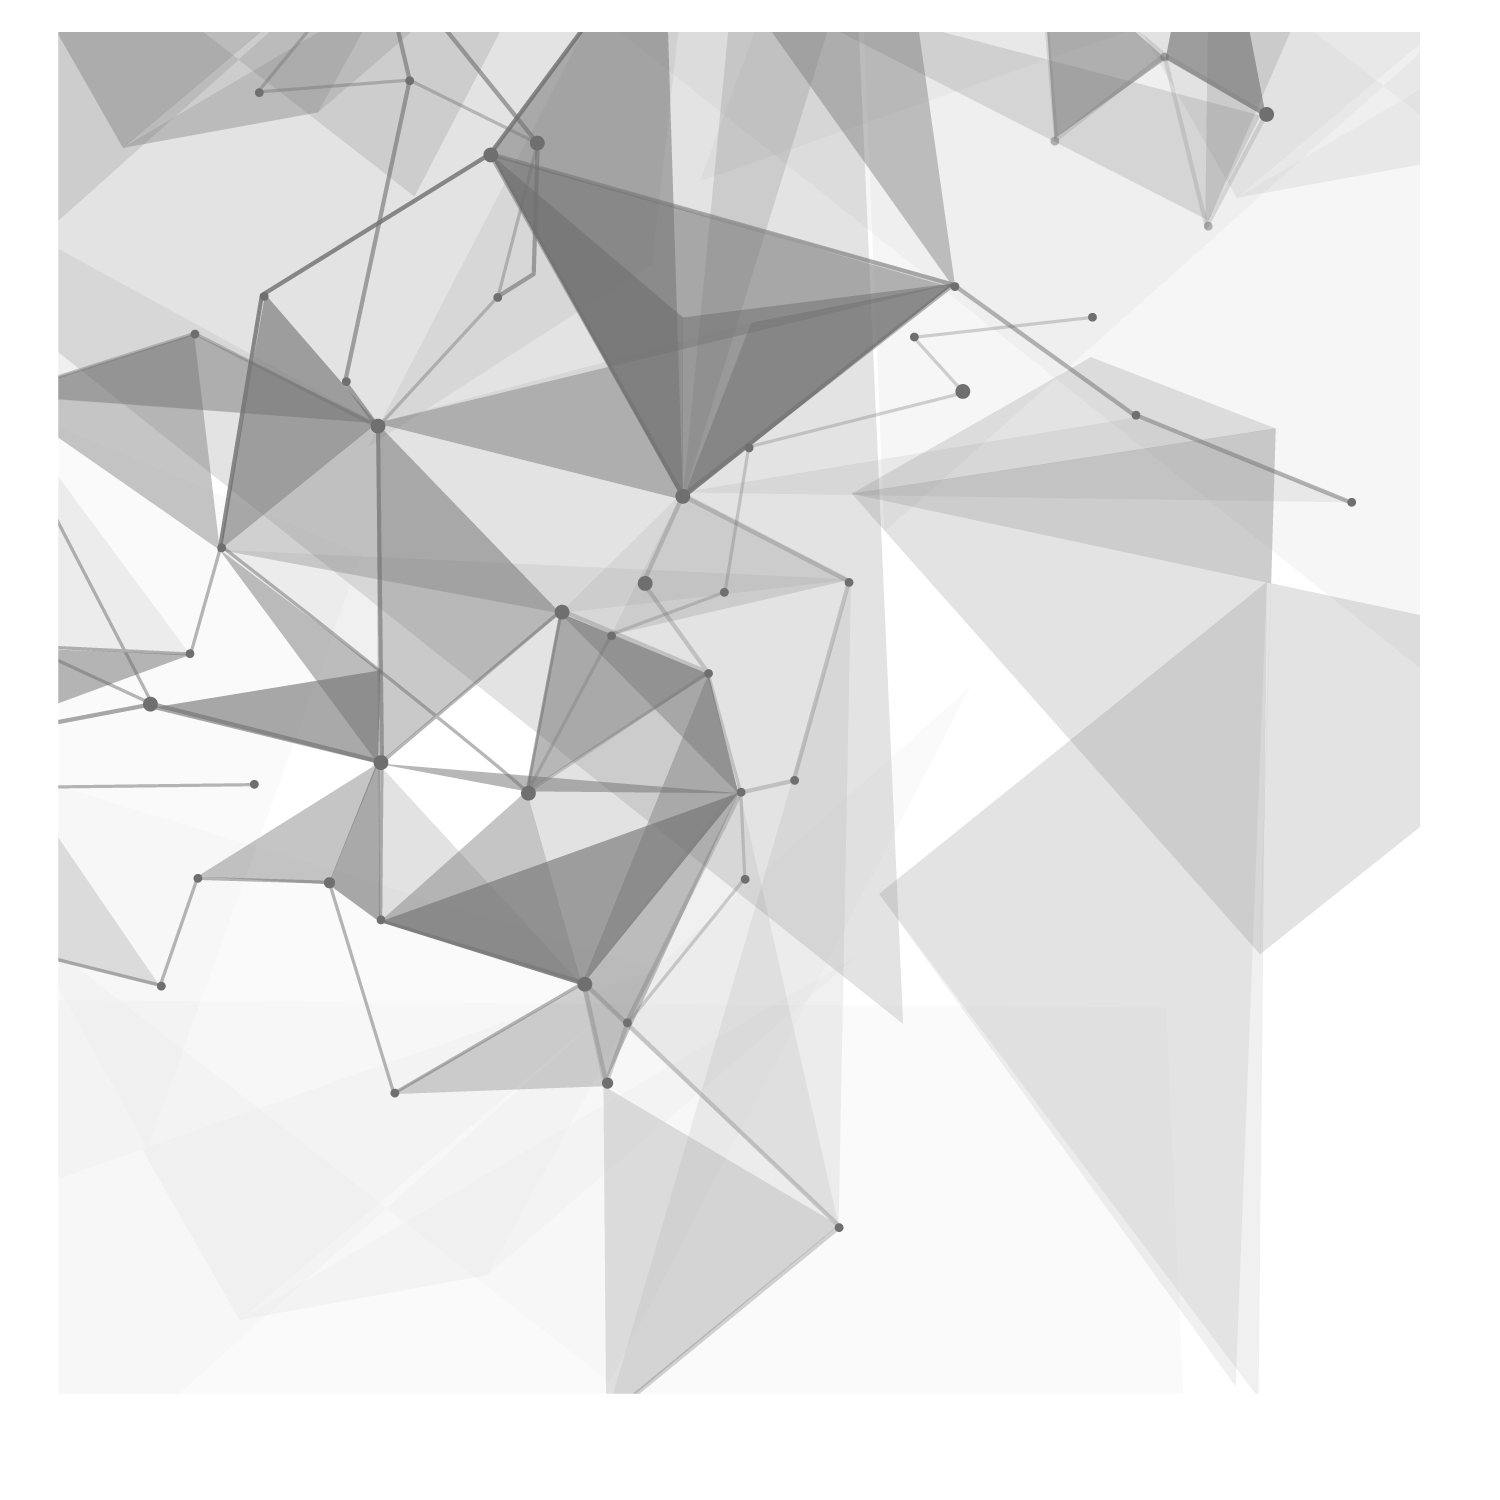
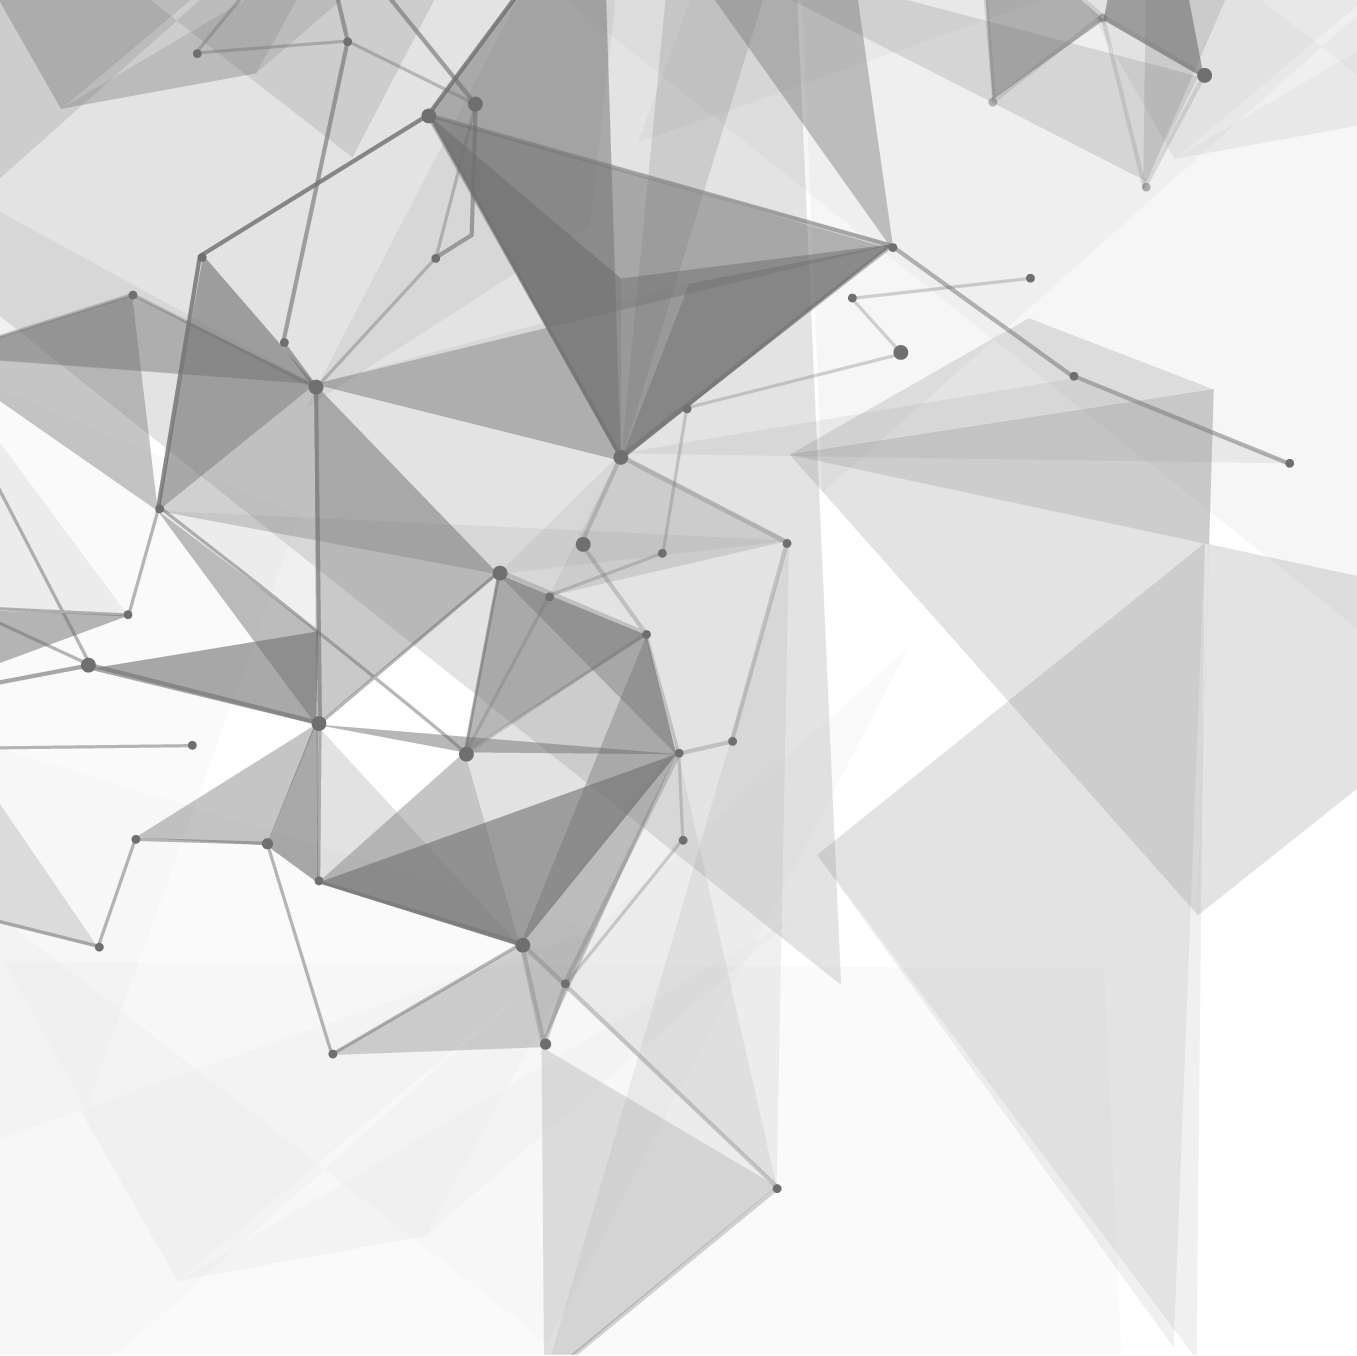
FIX: bg

diff --git a/sass/partials/_layout.scss b/sass/partials/_layout.scss
@@ -23,8 +23,10 @@ section {
 #texture-overlay {
     background-image: url("../assets/images/bg-layer.png");
     background-size: 120%;
-    background-position: center;
+    background-position: top;
+    background-repeat: no-repeat;
     opacity: 0.2;
+    
 }
 
 @media (max-width: 312.98px) {
@@ -32,48 +34,17 @@ section {
 }
 
 @media (max-width: 575.98px) {
-    .home.heading h2 {
-        font-size: 0.8rem;
-    }
-    .store.logo img{
-        width: 5rem!important;
-    }
-    .store.logo {
-        padding-right: 1rem!important;
-        padding-left: 1rem!important;
-        bottom: 1rem!important;
-    }
-    
+
 }
 
-.modal-backdrop {
-    z-index: 6000;
-}
 
 @media (max-width: 767.98px){
-   .home.heading {
-        top: inherit!important;
-        right: inherit!important;
-        width: 100vw;
-        display: flex;
-        justify-content: center;
-        bottom: 10rem!important;
-   }
-   .home.logo {
-        bottom: inherit!important;
-        top: 1rem;
-   }
-   .home.logo img{
-        width: 5rem!important;
-    }
+
 }
 
 
 @media (max-width: 991.98px) { 
-    .hero {
-        left: -20rem;
-        width: auto!important;
-   }
+
 }
 
 
@@ -81,6 +52,3 @@ section {
 
 }
 
-@media only screen and (max-height: 900px) {  
-   
-}

diff --git a/css/styles.css b/css/styles.css
@@ -634,54 +634,8 @@ section {
 #texture-overlay {
   background-image: url("../assets/images/bg-layer.png");
   background-size: 120%;
-  background-position: center;
+  background-position: top;
+  background-repeat: no-repeat;
   opacity: 0.2;
-}
-
-@media (max-width: 575.98px) {
-  .home.heading h2 {
-    font-size: 0.8rem;
-  }
-  .store.logo img {
-    width: 5rem !important;
-  }
-  .store.logo {
-    padding-right: 1rem !important;
-    padding-left: 1rem !important;
-    bottom: 1rem !important;
-  }
-}
-
-.modal-backdrop {
-  z-index: 6000;
-}
-
-@media (max-width: 767.98px) {
-  .home.heading {
-    top: inherit !important;
-    right: inherit !important;
-    width: 100vw;
-    display: -webkit-box;
-    display: -ms-flexbox;
-    display: flex;
-    -webkit-box-pack: center;
-        -ms-flex-pack: center;
-            justify-content: center;
-    bottom: 10rem !important;
-  }
-  .home.logo {
-    bottom: inherit !important;
-    top: 1rem;
-  }
-  .home.logo img {
-    width: 5rem !important;
-  }
-}
-
-@media (max-width: 991.98px) {
-  .hero {
-    left: -20rem;
-    width: auto !important;
-  }
 }
 /*# sourceMappingURL=styles.css.map */

diff --git a/index.html b/index.html
@@ -23,7 +23,9 @@
 <body class="font-regular">
   <div name="container" class="" style="width: 100vw; min-height: 100vh;">
     <div name="gradient-overlay" class="w-100 position-absolute bg-gradient" style="min-height: 100vh; z-index: 2000; opacity: 0.9;"></div>
-    <div name="texture-overlay" id="texture-overlay" class="w-100 position-absolute" style="min-height: 100vh; z-index: 3000;"></div>
+    <div class="position-absolute w-100 overflow-hidden" style="height: 100vh; z-index: 3000">
+      <div name="texture-overlay position-relative" id="texture-overlay" style="height: 100vh;"></div>
+    </div>
     <div id="carouselExampleIndicators" class="carousel slide" data-interval="false" style="z-index: 4000">
       <div class="carousel-indicators position-fixed" style="bottom: 1.2rem;">
         <button type="button" data-bs-target="#carouselExampleIndicators" data-bs-slide-to="0" class="text-white text-center active mx-3" aria-current="true" aria-label="Slide 1" style="text-indent: 0px; width: fit-content">
